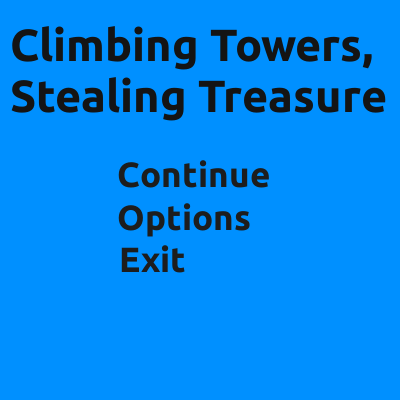
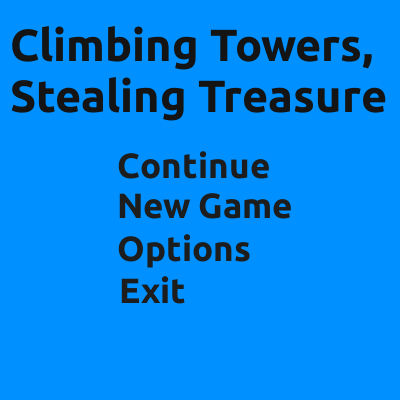
Update the main menu and it's class to allow for the continue button and the new game button at the same time.

Changed region(s): [[0.27, 0.36, 0.75, 0.78]]

diff --git a/core/src/za/co/jethromuller/ctst/menus/MainMenu.java b/core/src/za/co/jethromuller/ctst/menus/MainMenu.java
@@ -9,16 +9,22 @@ import za.co.jethromuller.ctst.Level;
 public class MainMenu extends Menu {
 
     private String firstLevelName;
+    private boolean canContinue;
 
     public MainMenu(CtstGame game) {
-        super(game, null, "main_menu.png");
-        yCoords = new int[] {224, 180, 140};
+        super(game, null, "main_menu.png");;
         xCoord = 104;
 
         OptionsMenu.setOptions(game);
         game.musicController.startMenuMusic();
 
         checkForPreviousPlay();
+
+        if (!canContinue) {
+            yCoords = new int[] {193, 149, 109};
+        } else {
+            yCoords = new int[] {233, 193, 149, 109};
+        }
     }
 
     private void checkForPreviousPlay() {
@@ -26,21 +32,31 @@ public class MainMenu extends Menu {
         if (prefs.contains("lastLevel")) {
             firstLevelName = prefs.getString("lastLevel");
             menuTexture = new Texture(Gdx.files.internal("menus/main_menu_continue.png"));
+            canContinue = true;
         } else {
             firstLevelName = game.levelNames.get(0);
+            canContinue = false;
         }
     }
 
     @Override
     protected void handleMenuOptions() {
-        switch (option) {
+        int tempOptions = option;
+        if (!canContinue) {
+            tempOptions += 1;
+        }
+        switch (tempOptions) {
             case 0:
                 game.setScreen(new Level(game, firstLevelName, game.levelNames.indexOf(firstLevelName)));
                 break;
             case 1:
-                game.setScreen(new OptionsMenu(game));
+                game.setScreen(new Level(game, game.levelNames.get(0),
+                                         game.levelNames.indexOf(game.levelNames.get(0))));
                 break;
             case 2:
+                game.setScreen(new OptionsMenu(game));
+                break;
+            case 3:
                 Gdx.app.exit();
                 break;
         }
